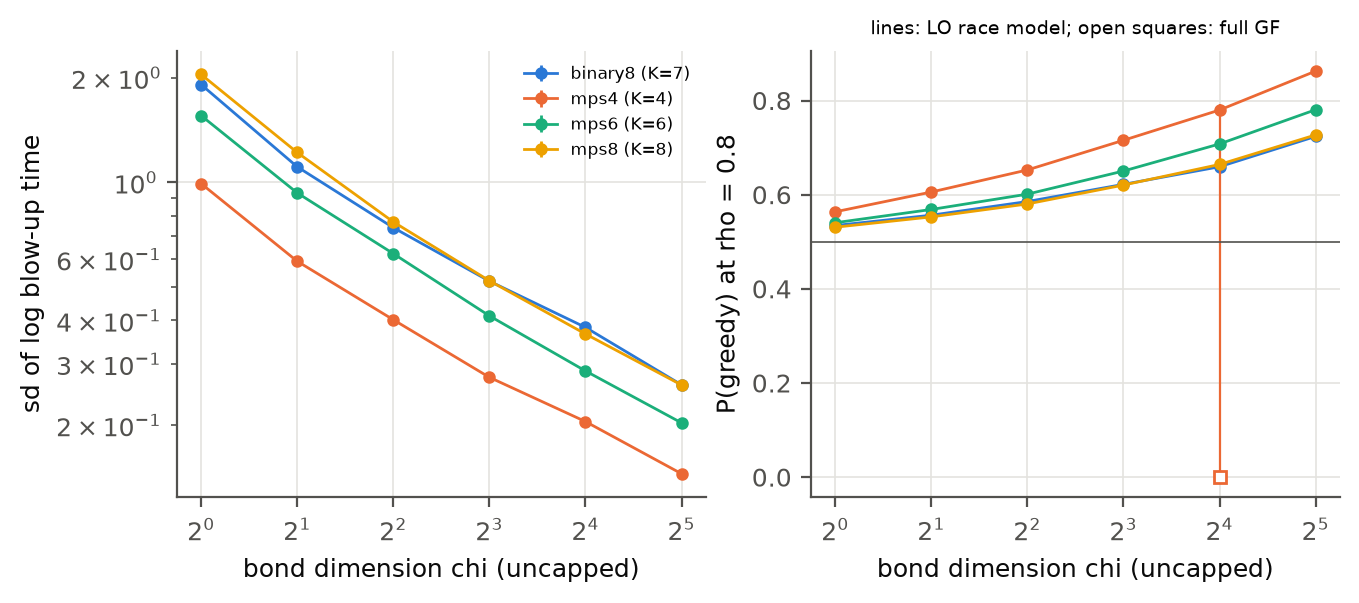
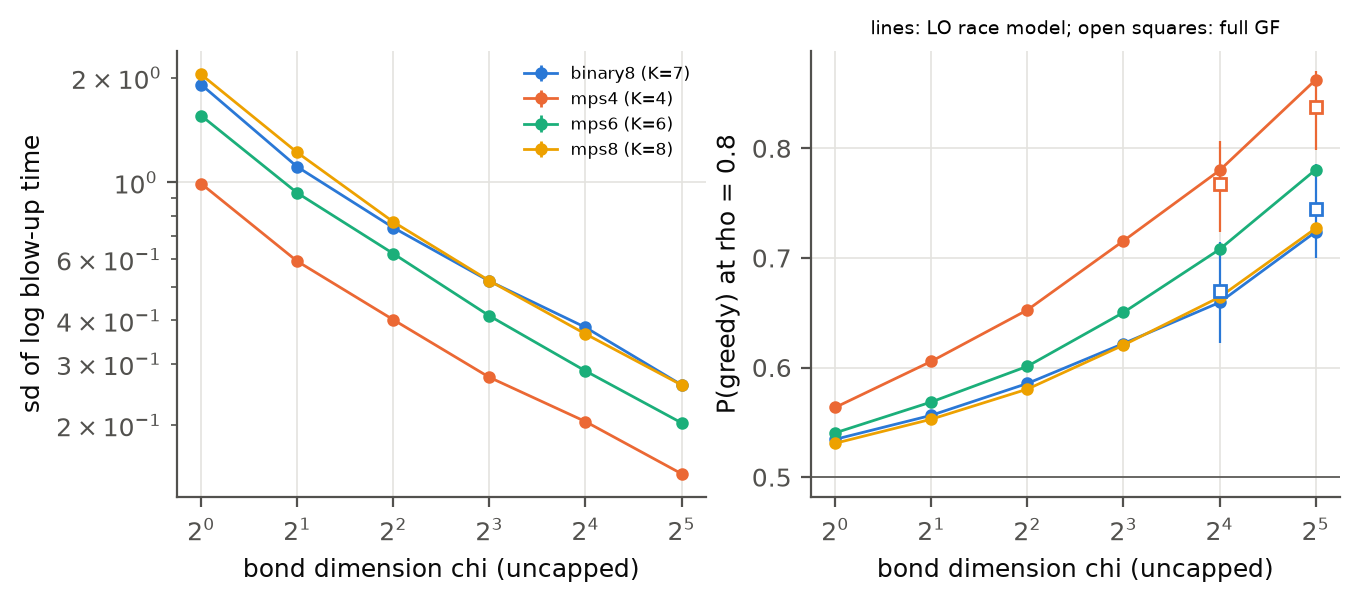
order: chi GF check

diff --git a/notes/order.md b/notes/order.md
@@ -208,7 +208,7 @@ P(smaller first) at sigma = 0.01 (Wilson 95% CI half-width <= 0.05):
 
 ### 7.4b MPS4 multiplicity test (pending)
 
-### 7.5 Over-parameterized bonds restore greedy order, slowly (complete for the LO race)
+### 7.5 Over-parameterized bonds restore greedy order, slowly (complete)
 
 Leading-order race (per-component blow-up times; exact for odeco on MPS, 96-99% for binary8), d = 2,
 uncapped bond dimension chi = 1..32 on every edge (`cap: false`: the end bonds exceed the rank they can
@@ -222,6 +222,9 @@ carry), 500 seeds per point (`sweep.py configs/chi_scan.yaml`, `analyze_chi.py`,
   (MPS8) at rho = 0.5 / 0.8 / 0.9. With a log-normal tau, P = Phi(ln(1/rho)/(sqrt 2 sd)), so P >= 0.9 needs
   sd <= ln(1/rho)/1.81, i.e. chi >= [1.03 (K-2)^0.61 / ln(1/rho)]^1.89 by the fit: for rho = 0.9,
   chi ~ 160 (K = 4) and ~570 (K = 8) [extrapolation of the empirical fit].
+- **GF check** (sigma = 0.01, 400 seeds, `chi_gf.yaml`, `results/chi_gf.csv`): MPS4 chi = 32: P = 0.84 /
+  0.68 / 0.58 at rho = 0.8 / 0.9 / 0.95 (race curve 0.86 / 0.70 / 0.60), per-seed race agreement 100%;
+  binary8 chi = 32: 0.745 / 0.62 / 0.565 (race 0.72 / 0.61 / 0.55), agreement 99.5%; chi = 16 likewise.
 - So the answer to "does larger chi restore greedy order?" is yes in the limit, as for over-parameterized
   CP (Ge et al. 2021), but slowly: the spread of log escape times shrinks only like chi^-1/2.
 
